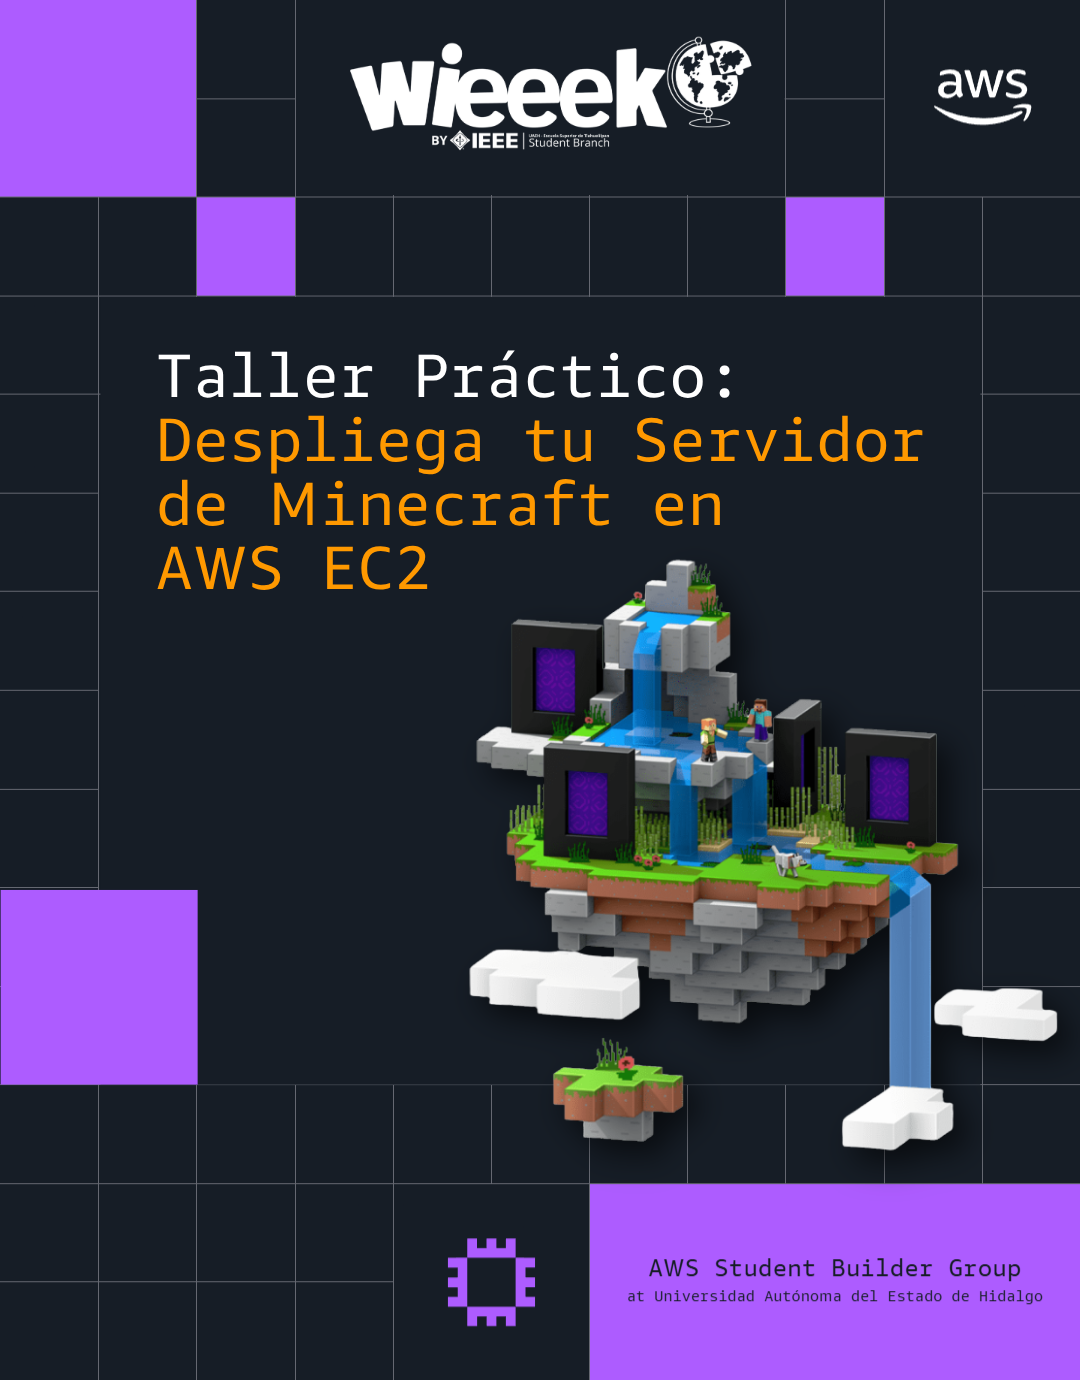
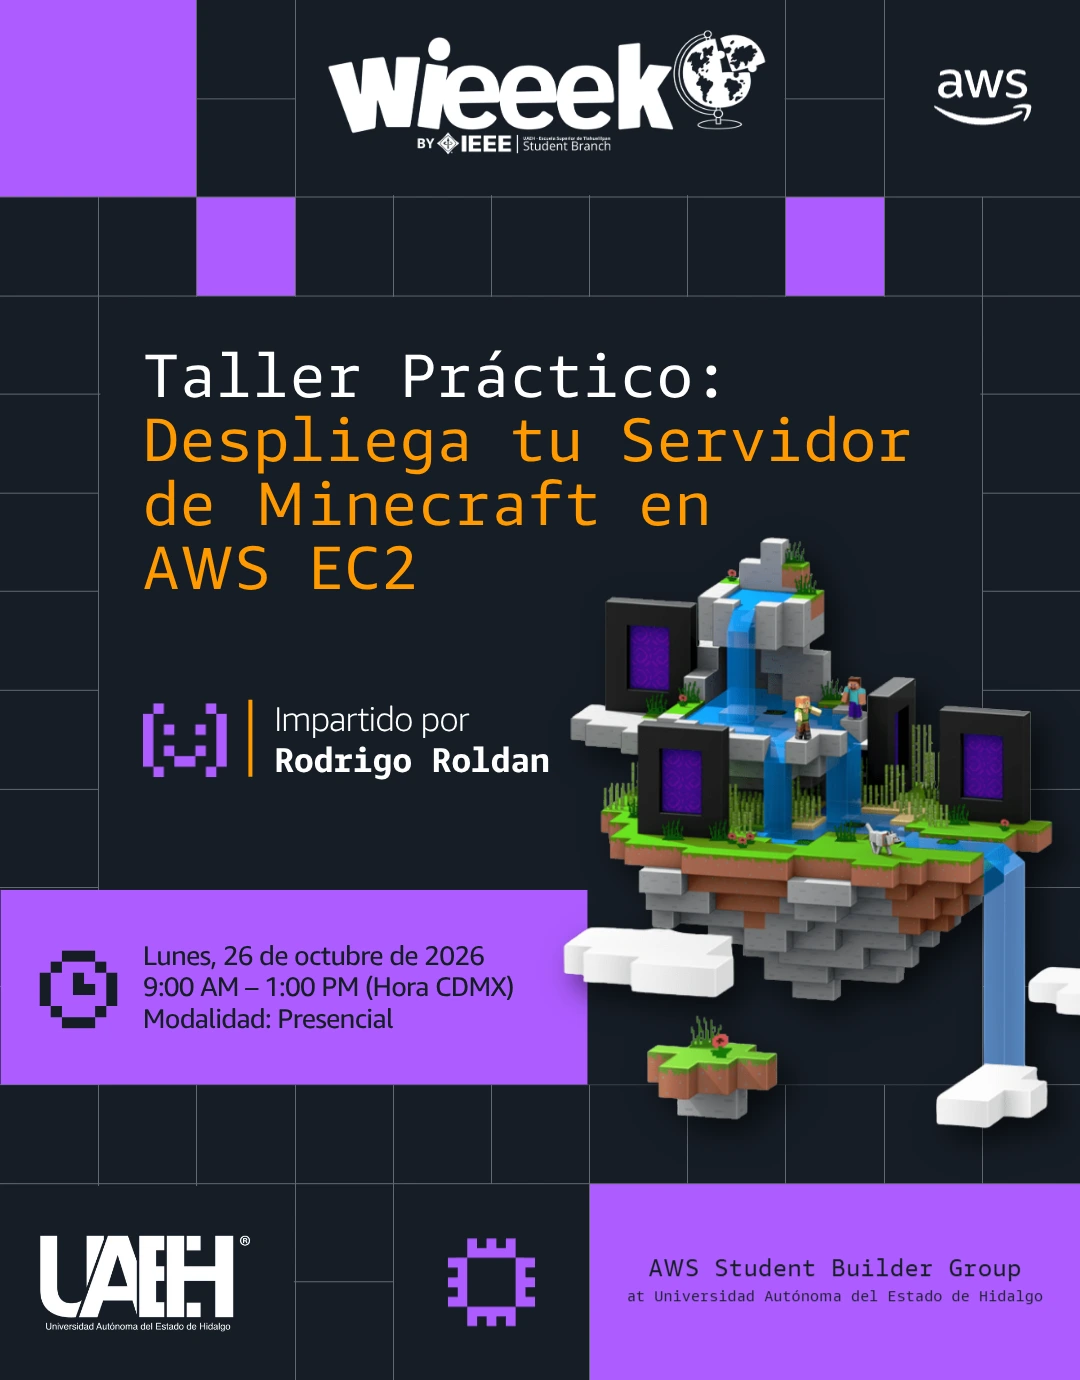
evento: se abrio el registro del taller de AWS EC2, cambio de fecha, hora, descripción y su flyer nuevo

diff --git a/src/app/data/comingSoon.ts b/src/app/data/comingSoon.ts
@@ -62,33 +62,33 @@ export const proximos: Proximo[] = [
     instructor: "IEEE - Escuela Superior de Tlahuelilpan Student Branch",
     image: "/eventos/wieeekFlyer.webp",
   },
-  // {
-  //   id: 2,
-  //   title: "Torneo E-Sports",
-  //   description:
-  //     "Torneo presencial de 3 días para competir en los videojuegos Minecraft, Clash Royale y FC27.",
-  //   fullDescription:
-  //     "El torneo presencial de E-Sports se llevará a cabo durante los tres días del evento. Los participantes competirán en tres videojuegos: Minecraft, Clash Royale y FC27. Se premiará a los primeros 3 lugares con mayor puntaje dentro de la tabla general.",
-  //   date: "26 de octubre de 2026",
-  //   location: "Escuela Superior de Tlahuelilpan",
-  //   category: "Evento",
-  //   instructor: "IEEE - Escuela Superior de Tlahuelilpan Student Branch",
-  //   image: "/eventos/e-sportFlyer.webp",
-  //   registerLink: "https://torneo-wieeek.vercel.app/",
-  // },
+  {
+    id: 2,
+    title: "Torneo E-Sports",
+    description:
+      "Torneo presencial de 3 días para competir en los videojuegos Minecraft, Clash Royale y FC27.",
+    fullDescription:
+      "El torneo presencial de E-Sports se llevará a cabo durante los tres días del evento. Los participantes competirán en tres videojuegos: Minecraft, Clash Royale y FC27. Se premiará a los primeros 3 lugares con mayor puntaje dentro de la tabla general.",
+    date: "26 de octubre de 2026",
+    location: "Escuela Superior de Tlahuelilpan",
+    category: "Evento",
+    instructor: "IEEE - Escuela Superior de Tlahuelilpan Student Branch",
+    image: "/eventos/e-sportFlyer.webp",
+    registerLink: "https://torneo-wieeek.vercel.app/",
+  },
   {
     id: 3,
     title: "Despliega tu Servidor de Minecraft en AWS EC2",
     description:
-      "Taller práctico de 5 horas para crear y administrar un servidor multijugador de Minecraft alojado en Amazon EC2.",
+      "Taller práctico de 4 horas para crear y administrar un servidor multijugador de Minecraft alojado en Amazon EC2.",
     fullDescription:
-      "El AWS Student Builder Group (SBG) impartirá este taller práctico de 5 horas el 28 de octubre. Aprenderás a integrar conceptos de la certificación AWS Certified Cloud Practitioner como cómputo (EC2), redes, almacenamiento (EBS) y costos.",
-    date: "28 de octubre de 2026",
+      "Te invitamos al taller presencial organizado por el AWS Student Builder Group UAEH, impartido por Rodrigo Roldán, donde aprenderás a aprovisionar, asegurar y automatizar la infraestructura completa de un servidor de Minecraft Java Edition utilizando la nube de Amazon Web Services (AWS)",
+    date: "26 de octubre de 2026",
     location: "Escuela Superior de Tlahuelilpan",
     category: "Taller",
-    instructor: "AWS Student Builder Group(SBG) - UAEH",
+    instructor: "AWS Student Builder Group - UAEH",
     image: "/talleres/tallerCORE.webp",
-    registroAbierto: false,
+    registroAbierto: true,
     cupoMaximo: 25,
   },
   {
